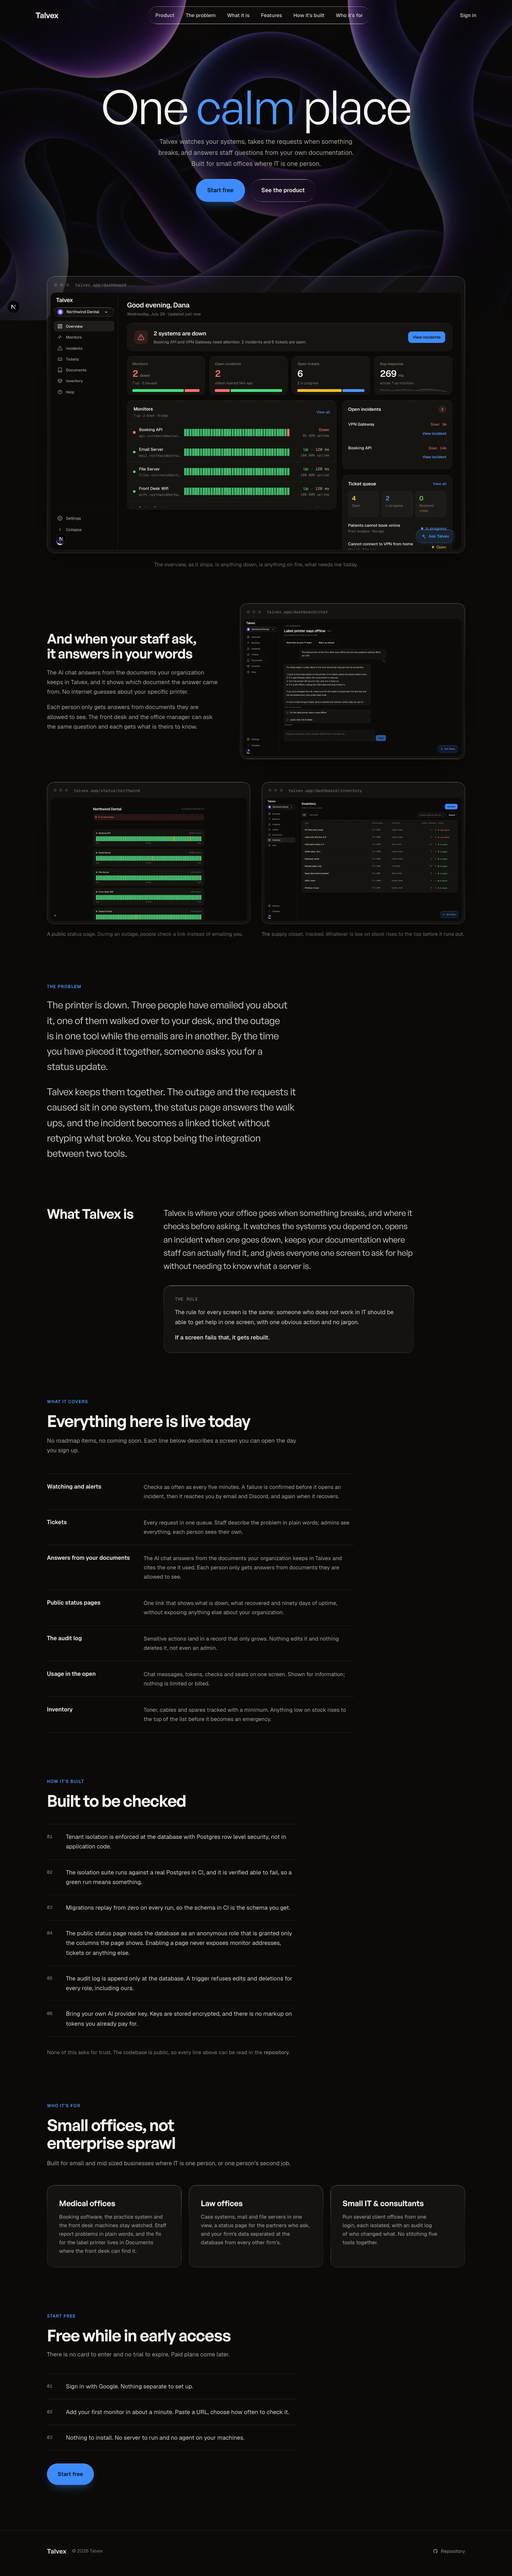
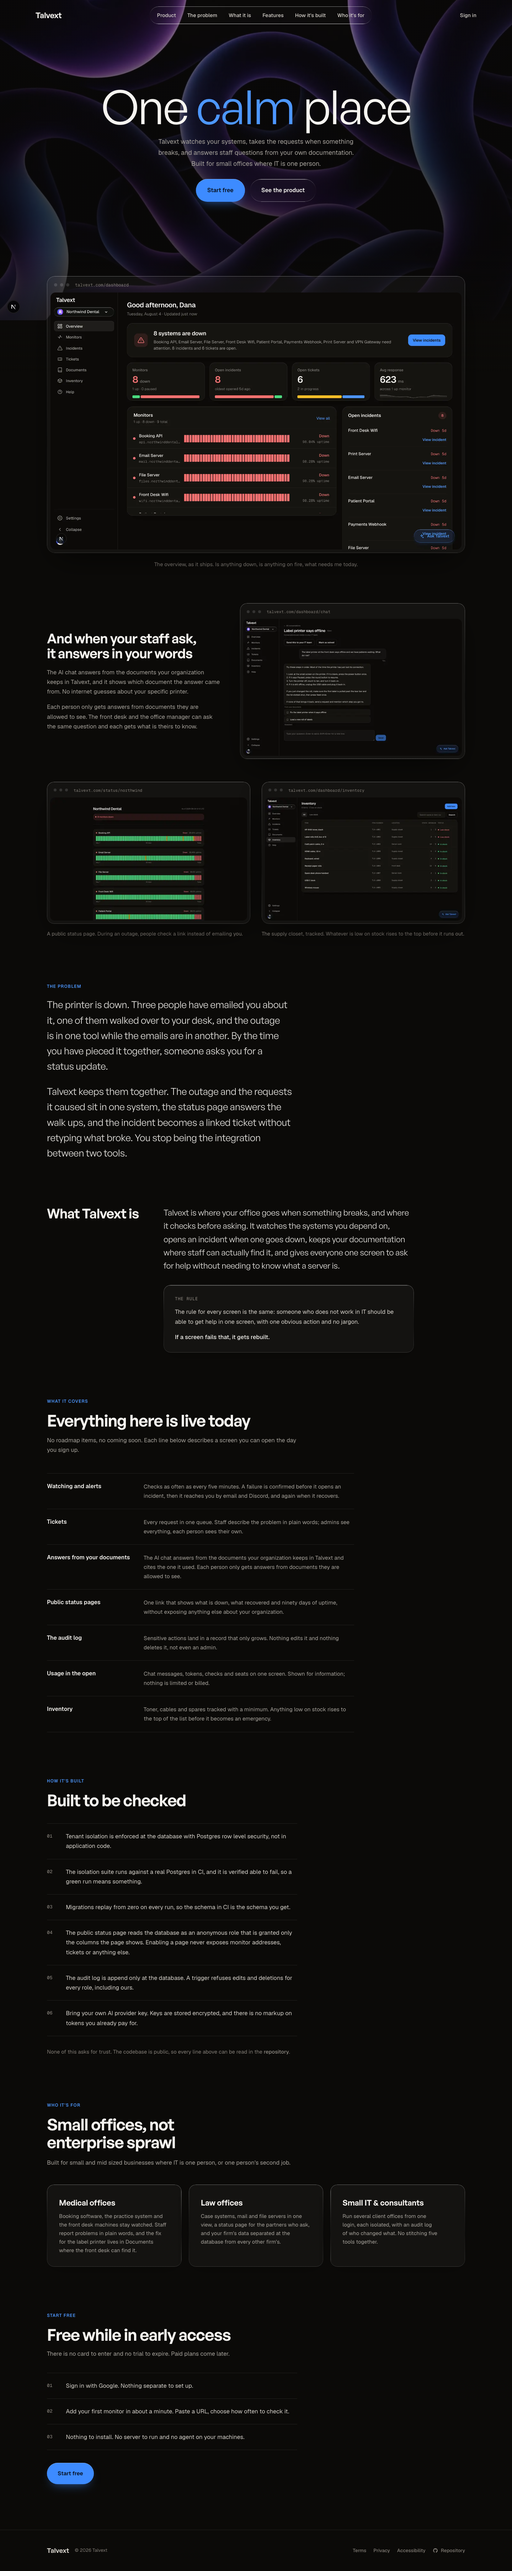
Retake every product screenshot from the renamed app
Every capture showing the old wordmark is retaken from the running
Talvext app: the four landing product shots (Northwind Dental demo org,
one signed in session, the status page from the live domain), the two
README shots, nine dark reference renders, and both full page landing
captures, which were retaken after the new product shots were wired in
so the framed images inside them are the new ones.

Replaced landing and README images take new filenames per the cache
busting rule from #23 (dashboard-view, chat-view, status-view,
inventory-view; overview-talvext, chat-grounded-talvext), compressed
with sharp palette quantization to below the sizes they replace. The
design reference renders are replaced in place: they are referenced as
a folder, not embedded by URL.

The README overview alt text now says eight monitors down, because that
is what the picture shows. DESIGN.md records the four reference
captures that still predate the rename (the three empty states and the
member ticket queue) and why: they need staged state to reproduce.

diff --git a/src/app/page.tsx b/src/app/page.tsx
@@ -152,7 +152,7 @@ export default function Home() {
             <FrameBar url="talvext.com/dashboard" />
             <div className="relative aspect-[16/10] overflow-hidden rounded-tile">
               <Image
-                src="/landing/dashboard-shot.png"
+                src="/landing/dashboard-view.png"
                 alt={PROOF.overviewAlt}
                 fill
                 priority
@@ -181,7 +181,7 @@ export default function Home() {
               <FrameBar url="talvext.com/dashboard/chat" small />
               <div className="relative aspect-[16/10] overflow-hidden rounded-[13px]">
                 <Image
-                  src="/landing/chat-shot.png"
+                  src="/landing/chat-view.png"
                   alt={PROOF.chatAlt}
                   fill
                   sizes="(max-width: 768px) 100vw, 700px"
@@ -197,7 +197,7 @@ export default function Home() {
                 <FrameBar url="talvext.com/status/northwind" small />
                 <div className="relative aspect-[16/10] overflow-hidden rounded-[13px]">
                   <Image
-                    src="/landing/status-shot.png"
+                    src="/landing/status-view.png"
                     alt={PROOF.statusAlt}
                     fill
                     sizes="(max-width: 768px) 100vw, 590px"
@@ -214,7 +214,7 @@ export default function Home() {
                 <FrameBar url="talvext.com/dashboard/inventory" small />
                 <div className="relative aspect-[16/10] overflow-hidden rounded-[13px]">
                   <Image
-                    src="/landing/inventory-shot.png"
+                    src="/landing/inventory-view.png"
                     alt={PROOF.inventoryAlt}
                     fill
                     sizes="(max-width: 768px) 100vw, 590px"

diff --git a/docs/design/DESIGN.md b/docs/design/DESIGN.md
@@ -107,8 +107,13 @@ and are imported across the dashboard screens.
 | **Landing (public)** | `/` | This document, §5 |
 
 Reference renders for every screen are in
-[`docs/design/screenshots/`](screenshots/) (the `*-dark.png` set is current;
-`*-light.png` predate the dark-only decision and are historical).
+[`docs/design/screenshots/`](screenshots/). The `*-dark.png` set was retaken
+2026-08-04 after the Talvext rename, except four captures that need staged
+state to reproduce (`monitors-empty`, `incidents-empty`, `tickets-empty`, and
+`tickets-queue-member`): those predate the rename, show the old wordmark, and
+are kept as dated references until an empty org and a member session are next
+staged. `*-light.png` predate the dark-only decision and are historical, as
+are the `before-`/`after-` process captures.
 
 Detail pages, forms, and the chat experience are still on pre-reskin styling and
 are tracked as follow-up work, not yet part of the locked design.

diff --git a/README.md b/README.md
@@ -10,9 +10,9 @@ office's own written documents, and turns the rest into tickets. One
 organization's data is separated from another's by the database, not by
 application code that has to remember.
 
-![The Overview screen: two monitors down, open incidents, the ticket queue](docs/readme/overview.png)
+![The Overview screen: eight monitors down, open incidents, the ticket queue](docs/readme/overview-talvext.png)
 
-![Support chat answering from the organization's own documents, with the sources it used](docs/readme/chat-grounded.png)
+![Support chat answering from the organization's own documents, with the sources it used](docs/readme/chat-grounded-talvext.png)
 
 Both screenshots are the running app against a seeded demo organization. No
 mockups, and nothing on screen that the product does not do.
